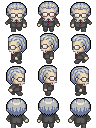
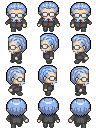
修复了UTF-8格式的agent策略问题； 更正了任务栏里的人物头像。

diff --git a/generative_agents-main/reverie/backend_server/persona/prompt_template/gpt_structure.py b/generative_agents-main/reverie/backend_server/persona/prompt_template/gpt_structure.py
@@ -357,9 +357,9 @@ def generate_prompt(curr_input, prompt_lib_file):
     curr_input = [curr_input]
   curr_input = [str(i) for i in curr_input]
 
-  f = open(prompt_lib_file, "r")
-  prompt = f.read()
-  f.close()
+  # 显式指定 UTF-8，避免在 Windows 默认 GBK 下读取含特殊符号的模板时报错
+  with open(prompt_lib_file, "r", encoding="utf-8") as f:
+    prompt = f.read()
   for count, i in enumerate(curr_input):   
     prompt = prompt.replace(f"!<INPUT {count}>!", i)
   if "<commentblockmarker>###</commentblockmarker>" in prompt: 
